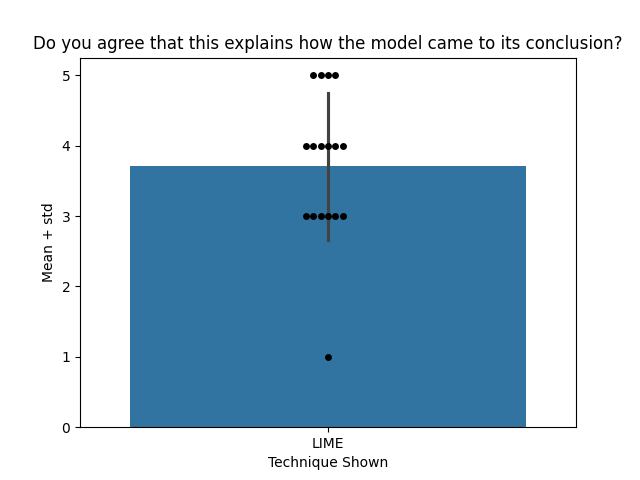
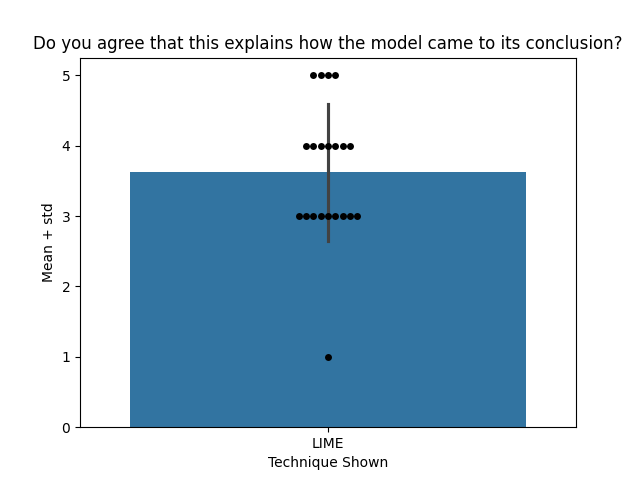
Update survey visualizations to include toms last two surveys

diff --git a/MOOC/user study/Sample B.md b/MOOC/user study/Sample B.md
@@ -11,3 +11,5 @@
 | Yes                                           | Yes                                                                          | Shapley           |                                             5 |                                                                       5 |  nan      | 3:Extracurricular Experience in ML |
 | Yes                                           | Yes                                                                          | Shapley           |                                             4 |                                                                       5 |   26.6833 | 2:Dabbled in ML                    |
 | Yes                                           | Yes                                                                          | Shapley           |                                             4 |                                                                       3 |   24.4167 | 4:Enrolled In ML Course            |
+| Yes                                           | Yes                                                                          | Anchor            |                                             3 |                                                                       2 |   46.2333 | 5:Completed ML Course              |
+| Yes                                           | Yes                                                                          | LIME              |                                             4 |                                                                       3 |  642.467  | 3:Extracurricular Experience in ML |

diff --git a/MOOC/user study/Sample C.md b/MOOC/user study/Sample C.md
@@ -11,3 +11,5 @@
 | No                                            | Yes                                                                          | LIME              |                                             3 |                                                                       5 |  nan      | 3:Extracurricular Experience in ML |
 | No                                            | Yes                                                                          | Anchor            |                                             5 |                                                                       5 |   26.6833 | 2:Dabbled in ML                    |
 | No                                            | No                                                                           | Anchor            |                                             3 |                                                                       4 |   24.4167 | 4:Enrolled In ML Course            |
+| No                                            | Yes                                                                          | Shapley           |                                             4 |                                                                       3 |   46.2333 | 5:Completed ML Course              |
+| No                                            | No                                                                           | LIME              |                                             3 |                                                                       4 |  642.467  | 3:Extracurricular Experience in ML |

diff --git a/MOOC/user study/Sample D.md b/MOOC/user study/Sample D.md
@@ -11,3 +11,5 @@
 | No                                            | No                                                                           | Shapley           |                                             4 |                                                                       5 |  nan      | 3:Extracurricular Experience in ML |
 | No                                            | No                                                                           | LIME              |                                             3 |                                                                       4 |   26.6833 | 2:Dabbled in ML                    |
 | No                                            | No                                                                           | LIME              |                                             5 |                                                                       5 |   24.4167 | 4:Enrolled In ML Course            |
+| No                                            | No                                                                           | Anchor            |                                             2 |                                                                       3 |   46.2333 | 5:Completed ML Course              |
+| No                                            | Yes                                                                          | Anchor            |                                             3 |                                                                       3 |  642.467  | 3:Extracurricular Experience in ML |

diff --git a/MOOC/user study/Sample F.md b/MOOC/user study/Sample F.md
@@ -11,3 +11,5 @@
 | Yes                                           | No                                                                           | Anchor            |                                             5 |                                                                       5 |  nan      | 3:Extracurricular Experience in ML |
 | Yes                                           | Yes                                                                          | Shapley           |                                             5 |                                                                       4 |   26.6833 | 2:Dabbled in ML                    |
 | Yes                                           | Unsure                                                                       | LIME              |                                             5 |                                                                       5 |   24.4167 | 4:Enrolled In ML Course            |
+| No                                            | Yes                                                                          | LIME              |                                             3 |                                                                       3 |   46.2333 | 5:Completed ML Course              |
+| Yes                                           | Yes                                                                          | LIME              |                                             4 |                                                                       3 |  642.467  | 3:Extracurricular Experience in ML |

diff --git a/MOOC/user study/Sample G.md b/MOOC/user study/Sample G.md
@@ -11,3 +11,5 @@
 | Yes                                           | Yes                                                                          | LIME              |                                             5 |                                                                       5 |  nan      | 3:Extracurricular Experience in ML |
 | No                                            | Yes                                                                          | Anchor            |                                             4 |                                                                       4 |   26.6833 | 2:Dabbled in ML                    |
 | Yes                                           | No                                                                           | Shapley           |                                             5 |                                                                       5 |   24.4167 | 4:Enrolled In ML Course            |
+| Unsure                                        | Yes                                                                          | Shapley           |                                             4 |                                                                       3 |   46.2333 | 5:Completed ML Course              |
+| Yes                                           | Unsure                                                                       | Shapley           |                                             4 |                                                                       4 |  642.467  | 3:Extracurricular Experience in ML |
